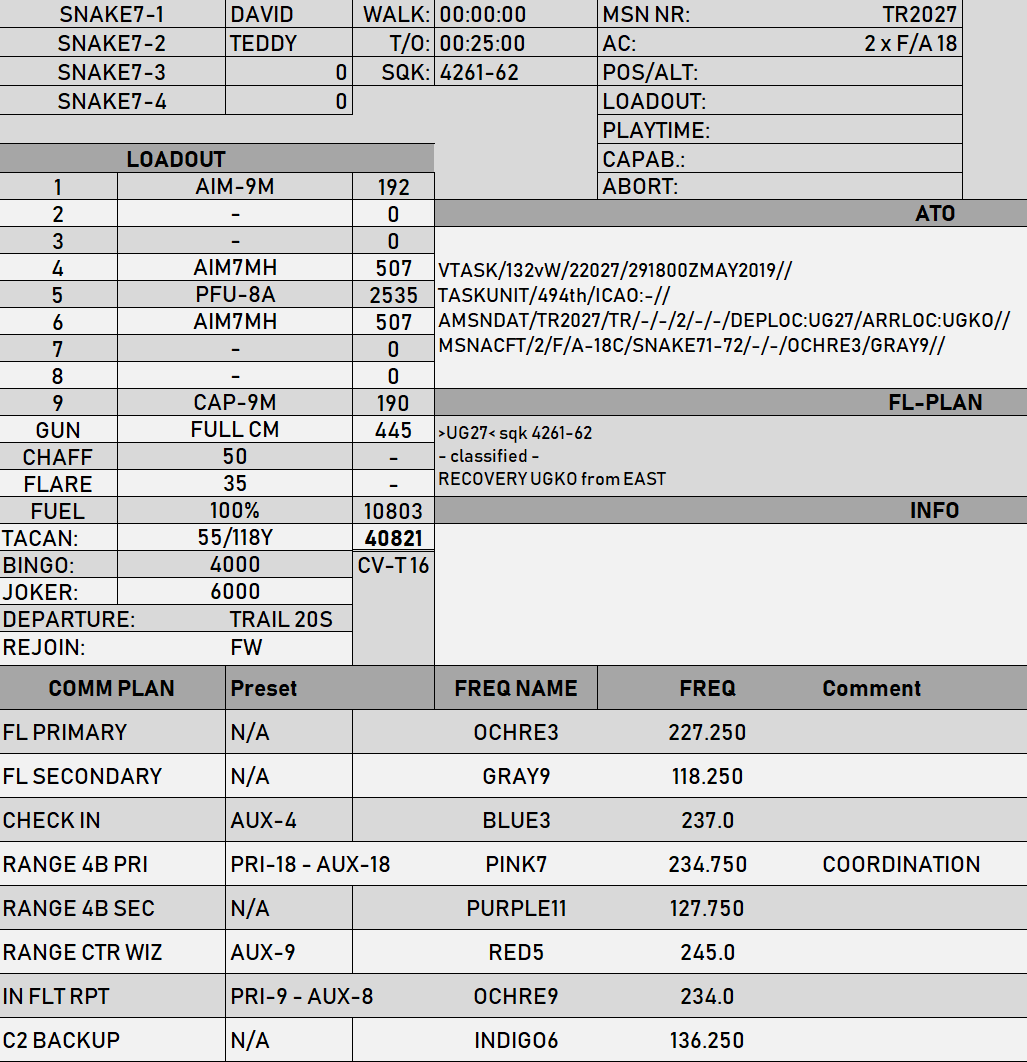
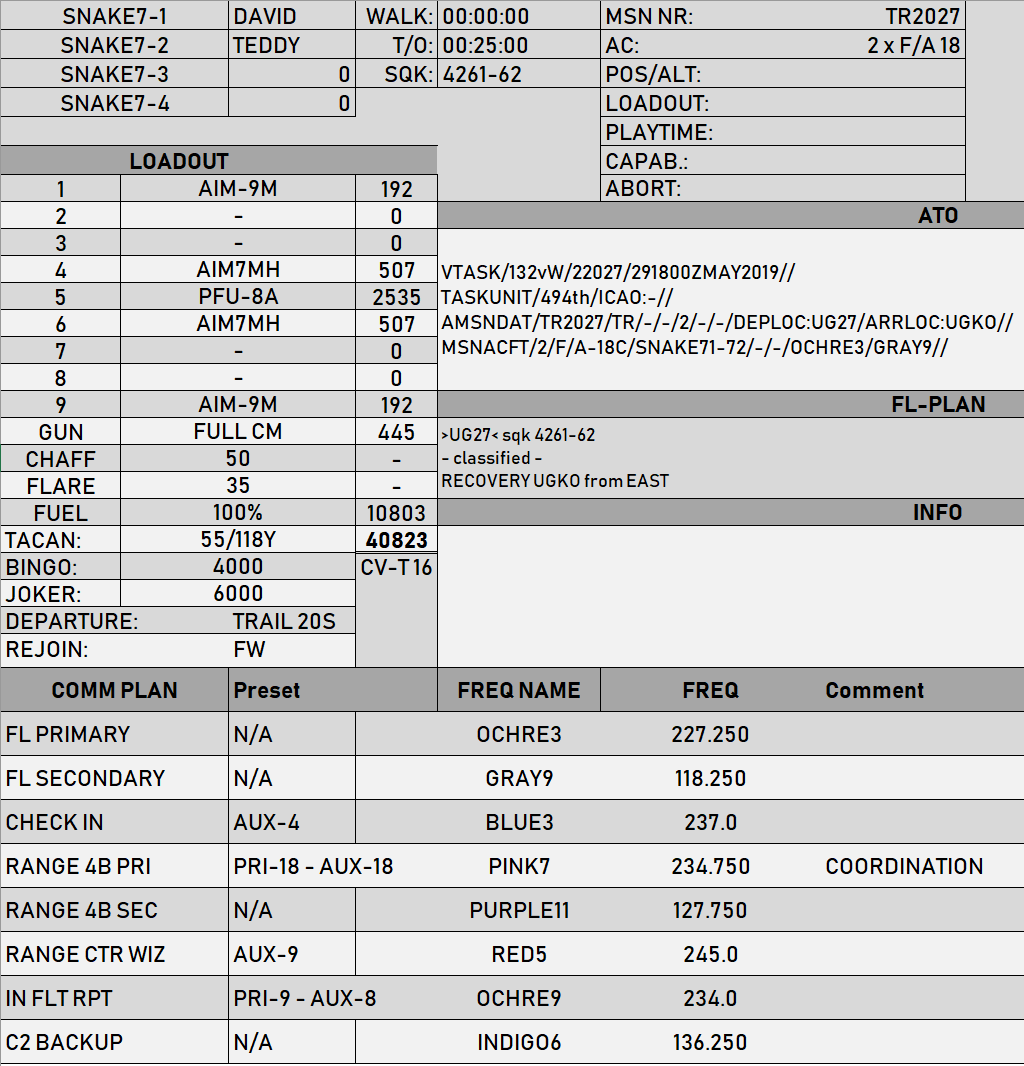
asd

diff --git a/index.md b/index.md
@@ -22,7 +22,7 @@ WM: TEDDY
 
 left | right
 ----- | -----
-S1 - AIM-9M | S9 - CAP-9M
+S1 - AIM-9M | S9 - AIM-9M
 S2 - - | S8 - -
 S3 - - | S7 - -
 S4 - AIM7MH | S6 - AIM7MH
